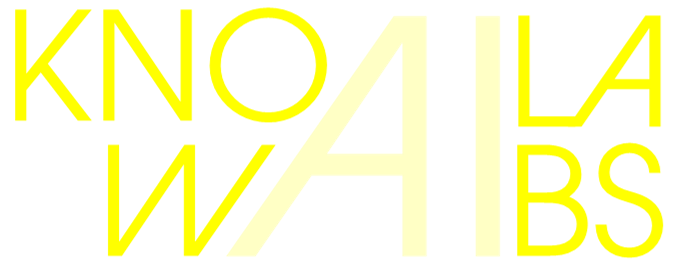
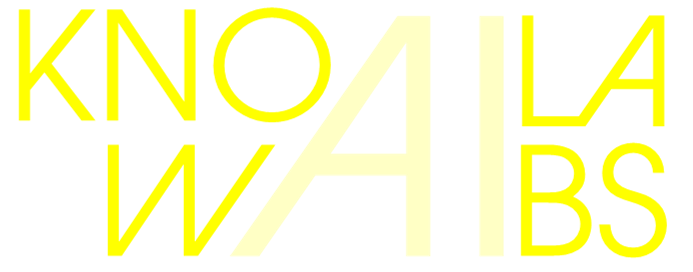
main graphic fixed

diff --git a/index.test.html b/index.test.html
@@ -37,7 +37,7 @@
               <a
                 href="#current_experiments"
                 class="hover:text-blue-200 transition-colors duration-200"
-                ><span class="icon">labs</span> Current Experiments |
+                ><span class="icon">lab_research</span> Current Experiments |
               </a>
             </li>
             <li>
@@ -171,7 +171,7 @@
           </h4>
           <p class="text-gray-600 mt-2 text-xl">
             As <span class="sc">ai</span> changes and offers more opportunities,
-            we'll work with you to continue refining and expanding your
+            we’ll work with you to continue refining and expanding your
             experiments.
           </p>
         </a>
@@ -180,7 +180,7 @@
       <a id="current_experiments"></a>
       <!-- More Tiles for Current Work -->
       <h3 class="text-3xl font-bold text-gray-800 mb-6">
-        <span class="icon big">labs</span> Current Experiments
+        <span class="icon big">lab_research</span> Current Experiments
       </h3>
       <h2 class="text-xl pb-5">
         <span class="icon">audio_video_receiver</span>
